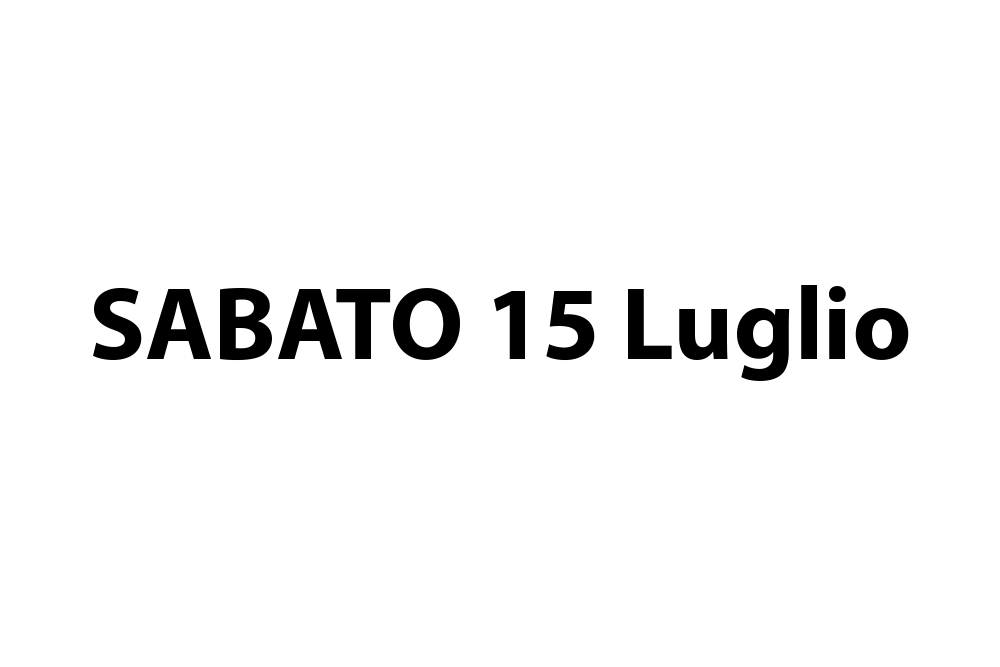
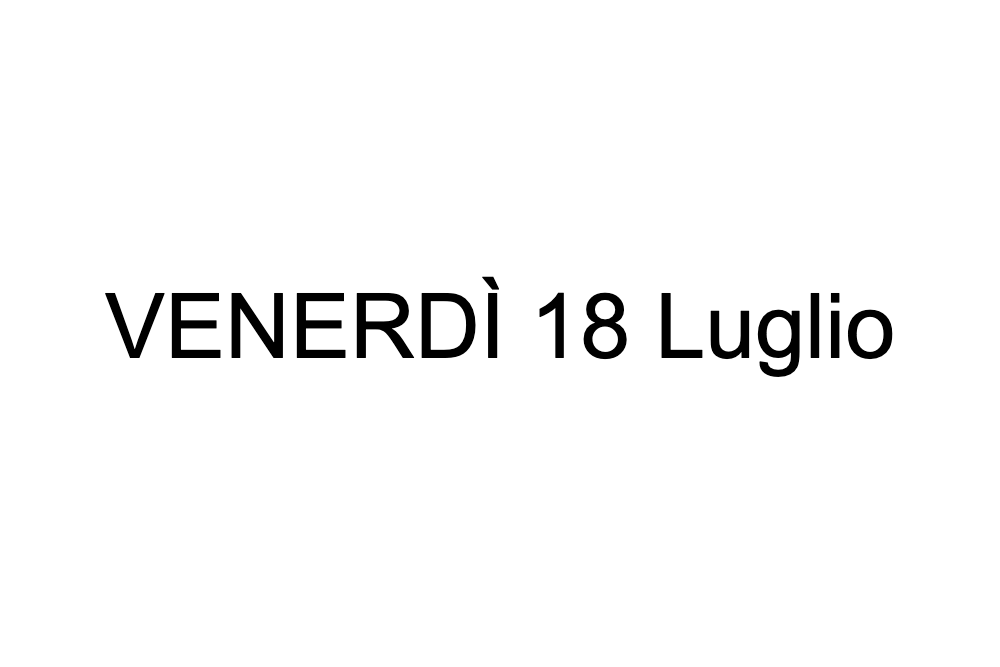
Updated Website for 2025

Changed region(s): [[0.093, 0.4198, 0.93, 0.5697]]

diff --git a/js/menu.js b/js/menu.js
@@ -8,66 +8,74 @@ function Product(photo, name, price, desc,category) {
 }
 
 var prod_list=[];
-prod_list.push(new Product("media/menu/GnocchiAlPomodoro.png","Gnocchi al Pomodoro",5.00,"Gnocchi al pomodoro","Primi"));
-prod_list.push(new Product("media/menu/GnocchiAlRagu.png","Gnocchi al Rag\u00F9",5.50,"Gnocchi al rag\u00F9","Primi"));
-prod_list.push(new Product("media/menu/GnocchiAlRaguDiConiglio.png","Gnocchi al Rag\u00F9 di coniglio",6.00,"Gnocchi al rag\u00F9 di coniglio","Primi"));
-prod_list.push(new Product("media/menu/SpaghettiAlPomodoro.png","Spaghetti al Pomodoro",5.00,"Spaghetti al pomodoro","Primi"));
-prod_list.push(new Product("media/menu/SpaghettiAlRagu.png","Spaghetti al Rag\u00F9",5.50,"Spaghetti al rag\u00F9","Primi"));
-prod_list.push(new Product("media/menu/SpaghettiAlRaguDiConiglio.png","Spaghetti al Rag\u00F9 di Coniglio",6.00,"Spaghetti al rag\u00F9 di coniglio","Primi"));
-//prod_list.push(new Product("media/menu/SpaghettiAmatriciana.png","Spaghetti all'Amatriciana",5.50,"Spaghetti all'amatriciana","Primi"));
+prod_list.push(new Product("media/menu/GnocchiAlPomodoro.png","Gnocchi al Pomodoro",5.50,"Gnocchi al pomodoro","Primi"));
+prod_list.push(new Product("media/menu/GnocchiAlRagu.png","Gnocchi al Rag\u00F9",6.00,"Gnocchi al rag\u00F9","Primi"));
+prod_list.push(new Product("media/menu/GnocchiAlRaguDiConiglio.png","Gnocchi al Rag\u00F9 di coniglio",6.50,"Gnocchi al rag\u00F9 di coniglio","Primi"));
+prod_list.push(new Product("media/menu/SpaghettiAlPomodoro.png","Spaghetti al Pomodoro",5.50,"Spaghetti al pomodoro","Primi"));
+prod_list.push(new Product("media/menu/SpaghettiAlRagu.png","Spaghetti al Rag\u00F9",6.00,"Spaghetti al rag\u00F9","Primi"));
+prod_list.push(new Product("media/menu/SpaghettiAlRaguDiConiglio.png","Spaghetti al Rag\u00F9 di Coniglio",6.50,"Spaghetti al rag\u00F9 di coniglio","Primi"));
 
 
-prod_list.push(new Product("media/menu/PiattoEstivo.png","Piatto Estivo",8.00,"Mozzarella di bufala, pomodoro, prosciutto crudo e pane","Secondi"));
+
+prod_list.push(new Product("media/menu/PiattoEstivo.png","Piatto Estivo",9.00,"Mozzarella di bufala, pomodoro, culatello e pane","Secondi"));
 prod_list.push(new Product("media/menu/BisteccaDiCavallo.png","Bistecca di Cavallo",10.00,"Bistecca di cavallo con pane","Secondi"));
-prod_list.push(new Product("media/menu/Stinco.png","Stinco",9.00,"Stinco di maiale al forno con pane","Secondi"));
-prod_list.push(new Product("media/menu/Costicine.png","Costicine",7.00,"3 costicine con polenta","Secondi"));
-prod_list.push(new Product("media/menu/Pancetta.png","Pancetta alla Piastra",6.00,"Pancetta alla piastra con pane","Secondi"));
+prod_list.push(new Product("media/menu/Stinco.png","Stinco",12.00,"Stinco di maiale al forno con pane","Secondi"));
+prod_list.push(new Product("media/menu/Costicine.png","Costicine",8.00,"3 costicine con polenta","Secondi"));
+prod_list.push(new Product("media/menu/Pancetta.png","Pancetta alla Piastra",6.50,"Pancetta alla piastra con pane","Secondi"));
 prod_list.push(new Product("media/menu/CosciaDiPollo.png","Coscia di Pollo",7.00,"Coscia di pollo disossata con polenta","Secondi"));
-prod_list.push(new Product("media/menu/Salsiccia.png","Salsiccia",6.00,"2 salsicce con polenta","Secondi"));
-prod_list.push(new Product("media/menu/Tagliata.png","Tagliata",11.00,"Tagliata di manzo con rucola e pane","Secondi"));
+prod_list.push(new Product("media/menu/Salsiccia.png","Salsiccia",6.50,"2 salsicce con polenta","Secondi"));
+prod_list.push(new Product("media/menu/Tagliata.png","Tagliata",12.00,"Tagliata di manzo con rucola e pane","Secondi"));
 prod_list.push(new Product("media/menu/PiattoSagra.png","Piatto Sagra",10.00,"2 costicine, salsiccia, pancetta e polenta","Secondi"));
-prod_list.push(new Product("media/menu/PiattoBimbi.png","Wurstel con Patate",5.00,"Wurstel di POLLO con patatine fritte","Secondi"));
-prod_list.push(new Product("media/menu/FormaggioCotto.png","Formaggio Cotto",6.00,"Formaggio cotto con polenta","Secondi"));
+prod_list.push(new Product("media/menu/PiattoBimbi.png","Piatto Bimbi",5.00,"Wurstel di POLLO con patatine fritte","Secondi"));
+prod_list.push(new Product("media/menu/FormaggioCotto.png","Formaggio Cotto",7.00,"Formaggio cotto con polenta","Secondi"));
 prod_list.push(new Product("media/menu/FritturaDiAnelli.png","Frittura di Anelli",10.00,"Frittura di anelli di totano con polenta","Secondi"));
+prod_list.push(new Product("media/menu/PolpetteConiglio.png","Polpette di Coniglio",8.00,"Polpette di Coniglio in umido con pane","Secondi"));
+prod_list.push(new Product("media/menu/Trippa.png","Trippa alla Parmigiana",7.00,"Trippa alla parmigiana con pane","Secondi"));
 
 
-prod_list.push(new Product("media/menu/Patate.png","Patatine Fritte",2.50,"Patatine fritte","Contorni"));
-prod_list.push(new Product("media/menu/Funghi.png","Funghi",3.00,"Funghi","Contorni"));
-prod_list.push(new Product("media/menu/Fagioli.png","Fagioli",3.00,"Fagioli","Contorni"));
+prod_list.push(new Product("media/menu/Patate.png","Patatine Fritte",3.00,"Patatine fritte","Contorni"));
+prod_list.push(new Product("media/menu/Funghi.png","Funghi",3.50,"Funghi","Contorni"));
+prod_list.push(new Product("media/menu/Fagioli.png","Fagioli",3.00,"Fagioli (sedano e cipolla)","Contorni"));
 //prod_list.push(new Product("media/menu/Patate.png","Patatine Fritte (BAR)",2.50,"Patatine fritte da ritirare presso il bar","Contorni"));
 
 prod_list.push(new Product("media/menu/PaninoOnto.png","Panino ONTO *",6.00,"Panino con pastin, cipolla e peperoni","Panini"));
 prod_list.push(new Product("media/menu/PaninoPastin.png","Panino PASTIN *",5.00,"Panino con pastin","Panini"));
 prod_list.push(new Product("media/menu/PaninoVegetariano.png","Panino VEGETARIANO *",5.00,"Panino con cipolla e peperoni","Panini"));
 prod_list.push(new Product("media/menu/PaninoPorchetta.png","Panino PORCHETTA *",4.00,"Panino con porchetta","Panini"));
-prod_list.push(new Product("media/menu/Bruschetta.png","BRUSCHETTA della Sagra *",4.00,"Bruschetta con zucchine, pomodoro, carote, aglio, capperi, basilico","Panini"));
+prod_list.push(new Product("media/menu/Bruschetta.png","BRUSCHETTA della Sagra *",4.00,"Bruschetta con zucchine, pomodoro, carote, peperoni, aglio, capperi, basilico e rucola","Panini"));
+prod_list.push(new Product("media/menu/ConiglioBar.png","Polpettine di Coniglio *",5.00,"Polpettine di coniglio al forno","Panini"));
 
 prod_list.push(new Product("media/menu/Acqua.png","Acqua minerale 0.5lt",1.00,"Acqua minerale naturale o frizzante","Bevande"));
-prod_list.push(new Product("media/menu/Bibite.png","Bibite",2.00,"Coca Cola, aranciata, Lemonsoda o the","Bevande"));
-prod_list.push(new Product("media/menu/Succo.png","Succo di Frutta",2.00,"Succo di frutta, gusti assortiti","Bevande"));
+prod_list.push(new Product("media/menu/Bibite.png","Bibite",2.50,"Coca Cola, aranciata, Lemonsoda o the","Bevande"));
+//prod_list.push(new Product("media/menu/Succo.png","Succo di Frutta",2.00,"Succo di frutta, gusti assortiti","Bevande"));
 prod_list.push(new Product("media/menu/Caffe.png","Caff\u00E8",1.00,"Caff\u00E8","Bevande"));
 prod_list.push(new Product("media/menu/Ombra.png","Ombra di Vino",1.00,"Ombra di vino rosso o bianco","Bevande"));
-prod_list.push(new Product("media/menu/Vino.png","Vino in Bottiglia SFUSO (0.75lt)",5.00,"Vino in Bottiglia SFUSO (0.75lt)","Bevande"));
-prod_list.push(new Product("media/menu/VinoBott.png","Vino in Bottiglia (0.75lt)",8.00,"Vino in Bottiglia (0.75lt): merlot, cabernet sauvignon","Bevande"));
-prod_list.push(new Product("media/menu/Prosecco.png","Prosecco DOC Treviso BRUT",8.00,"Prosecco DOC Treviso BRUT","Bevande"));
+prod_list.push(new Product("media/menu/Vino.png","Vino in Bottiglia SFUSO (0.75lt)",5.50,"Vino in Bottiglia SFUSO (0.75lt)","Bevande"));
+prod_list.push(new Product("media/menu/VinoBott.png","Vino in Bottiglia (0.75lt)",9.00,"Vino in Bottiglia (0.75lt): merlot, cabernet sauvignon","Bevande"));
+//prod_list.push(new Product("media/menu/Prosecco.png","Prosecco DOC Treviso BRUT",8.00,"Prosecco DOC Treviso BRUT","Bevande"));
 
-prod_list.push(new Product("media/menu/BirraCastelloBionda.png","Birra BIONDA PICCOLA",2.50,"Birra bionda Castello PICCOLA","Bevande"));
-prod_list.push(new Product("media/menu/BirraPedavenaNF.png","Birra NON FILTRATA PICCOLA",2.50,"Birra non filtrata Dolomite PICCOLA","Bevande"));
-prod_list.push(new Product("media/menu/BirraCastelloRossa.png","Birra ROSSA PICCOLA",2.50,"Birra rossa Castello PICCOLA","Bevande"));
+prod_list.push(new Product("media/menu/BirraCastelloBionda.png","Birra BIONDA PICCOLA",3.00,"Birra bionda Castello PICCOLA","Bevande"));
+prod_list.push(new Product("media/menu/BirraPedavenaNF.png","Birra NON FILTRATA PICCOLA",3.00,"Birra non filtrata Dolomite PICCOLA","Bevande"));
+prod_list.push(new Product("media/menu/BirraCastelloRossa.png","Birra ROSSA PICCOLA",3.00,"Birra rossa Castello PICCOLA","Bevande"));
 prod_list.push(new Product("media/menu/BirraCastelloBionda.png","Birra BIONDA GRANDE",5.00,"Birra bionda Castello GRANDE","Bevande"));
 prod_list.push(new Product("media/menu/BirraPedavenaNF.png","Birra NON FILTRATA GRANDE",5.00,"Birra non filtrata Dolomite GRANDE","Bevande"));
 prod_list.push(new Product("media/menu/BirraCastelloRossa.png","Birra ROSSA GRANDE",5.00,"Birra rossa Castello GRANDE","Bevande"));
-prod_list.push(new Product("media/menu/Caraffa.png","Caraffa di BIRRA 1,5lt",14.00,"Caraffa di birra (1,5lt) Rossa, Bionda o non filtrata","Bevande"));
-prod_list.push(new Product("media/menu/Spritz.png","Spritz",3,"Spritz","Bevande"));
+prod_list.push(new Product("media/menu/Radler.png","Radler",3.00,"Radler in bottiglia","Bevande"));
+prod_list.push(new Product("media/menu/Caraffa.png","Caraffa di BIRRA 1,5lt",15.00,"Caraffa di birra (1,5lt) Rossa o Bionda","Bevande"));
+prod_list.push(new Product("media/menu/Spritz.png","Spritz",3.00,"Spritz","Bevande"));
+prod_list.push(new Product("media/menu/GinLemon.png","Gin Lemon",6.00,"Gin Lemon","Bevande"));
+prod_list.push(new Product("media/menu/GinTonic.png","Gin Tonic",6.00,"Gin Tonic","Bevande"));
+prod_list.push(new Product("media/menu/Sgroppino.png","Sgroppino",3.00,"Sgroppino gusto limone o liquirizia","Bar"));
 
-
-prod_list.push(new Product("media/menu/Dolci.png","Fetta di dolce (profiteroles, torta della nonna, torta al cioccolato)",2.50,"Profiteroles, torta della nonna o torta al cioccolato","Dolci"));
-prod_list.push(new Product("media/menu/Sgroppino.png","Sgroppino",2.50,"Sgroppino gusto limone o liquirizia","Dolci"));
+//prod_list.push(new Product("media/menu/Dolci.png","Fetta di dolce (profiteroles, torta della nonna, torta al cioccolato)",2.50,"Profiteroles, torta della nonna o torta al cioccolato","Dolci"));
+//prod_list.push(new Product("media/menu/Sgroppino.png","Sgroppino",3.00,"Sgroppino gusto limone o liquirizia","Dolci"));
 
 
 prod_list.push(new Product("media/menu/Paella.png","Paella",17,"Paella mista pesce e carne","Serate-speciali"));
-prod_list.push(new Product("media/menu/Classi.png","Serata Classi",null,"Serata delle classi, menu standard a scelta","Serate-speciali"));
-prod_list.push(new Product("media/menu/Pesce.png","Grigliata di Pesce",25,"Orata, Seppie, Mazzancolle, Scampo, Spada e polenta","Serate-speciali"));
+prod_list.push(new Product("media/menu/Costata.png","Costata",35,"Costata","Serate-speciali"));
+prod_list.push(new Product("media/menu/Coniglio.png","Coniglio",35,"Delizie a base di coniglio","Serate-speciali"));
+//prod_list.push(new Product("media/menu/Classi.png","Serata Classi",null,"Serata delle classi, menu standard a scelta","Serate-speciali"));
+//prod_list.push(new Product("media/menu/Pesce.png","Grigliata di Pesce",25,"Orata, Seppie, Mazzancolle, Scampo, Spada e polenta","Serate-speciali"));
 
 
 
@@ -86,9 +94,9 @@ var baseURL=host+sagronewebapp;
 var product_list;
 
 document.addEventListener("DOMContentLoaded", function(){
-    var categoriesList=['Primi','Secondi','Contorni','Panini','Bevande','Dolci','Serate-speciali'];
+    //var categoriesList=['Primi','Secondi','Contorni','Panini','Bevande','Dolci','Serate-speciali'];
 
-
+    var categoriesList=['Primi','Secondi','Contorni','Panini','Bevande','Serate-speciali'];
     generate_categories_list(categoriesList);
 
 
@@ -130,7 +138,7 @@ function generate_categories_list(categoriesList){
 
             if(cat==="Panini"){
                 let panpar=document.createElement("p");
-                panpar.innerText="* i panini sono da ritirare presso il BAR";
+                panpar.innerText="* da ritirare presso il BAR";
                 panpar.classList="panini-exc";
                 maincon.appendChild(panpar);
             }
@@ -224,7 +232,8 @@ function generate_product_list_by_categories(productsList,category){
                 let col_price = document.createElement("div");
                 col_price.classList.add("col","price-col", "text-center");
                 if(price != null){
-                    col_price.innerHTML = Number(price).toFixed(2)+" \u20AC";
+                    //col_price.innerHTML = Number(price).toFixed(2)+" \u20AC";
+                    col_price.innerHTML ="-";
                 }
 
 

diff --git a/events.html b/events.html
@@ -71,7 +71,7 @@
     <div class="row" style="text-align: center;">
         <h3>I Nostri Eventi</h3>
     </div>
-    <div class="row event-row shadow-sm bg-white rounded gx-0 justify-content-center" >
+    <!--<div class="row event-row shadow-sm bg-white rounded gx-0 justify-content-center" >
 
         <h5 class="event-title">ALOHA Beach Party</h5>
         <div class="row justify-content-center"><img  class="event-img" alt="aloha" tile="aloha" src="media/events/AlohaEvent.png"></div>
@@ -111,6 +111,31 @@
         <h5 class="event-title">Spettacolo PIROTECNICO</h5>
         <div class="row justify-content-center"><img  class="event-img" alt="Spettacolo Pirotecnico" tile="Spettacolo Pirotecnico" src="media/events/PyroEvent.png"></div>
         <h6 class="event-title">Luned&igrave; 22 Luglio</h6>
+    </div>-->
+    <div class="row event-row shadow-sm bg-white rounded gx-0 justify-content-center" >
+        <h5 class="event-title">I-Pinguini (Cover Band)</h5>
+        <div class="row justify-content-center"><img  class="event-img" alt="pinguini" tile="pinguini" src="media/events/Pinguini.jpg"></div>
+        <h6 class="event-title">Venerdì 11 Luglio</h6>
+    </div>
+    <div class="row event-row shadow-sm bg-white rounded gx-0 justify-content-center" >
+        <h5 class="event-title">Gli Alcuni (Spettacolo per famiglie)</h5>
+        <div class="row justify-content-center"><img  class="event-img" alt="alcuni" tile="alcuni" src="media/events/Alcuni.png"></div>
+        <h6 class="event-title">Domenica 13 Luglio</h6>
+    </div>
+    <div class="row event-row shadow-sm bg-white rounded gx-0 justify-content-center" >
+        <h5 class="event-title">The BLACK BOYS BAND</h5>
+        <div class="row justify-content-center"><img  class="event-img" alt="Black Boys" tile="Black Boys" src="media/events/BlackBoys.png"></div>
+        <h6 class="event-title">Venerdì 18 Luglio</h6>
+    </div>
+    <div class="row event-row shadow-sm bg-white rounded gx-0 justify-content-center" >
+        <h5 class="event-title">Kalimero (party)</h5>
+        <div class="row justify-content-center"><img  class="event-img" alt="Kalimero" tile="Kalimero" src="media/events/Kalimero.jpg"></div>
+        <h6 class="event-title">Sabato 19 Luglio</h6>
+    </div>
+    <div class="row event-row shadow-sm bg-white rounded gx-0 justify-content-center" >
+        <h5 class="event-title">Giorgio Gozzo (Band)</h5>
+        <div class="row justify-content-center"><img  class="event-img" alt="Giorgio Gozzo" tile="Giorgio Gozzo" src="media/events/Gozzo.png"></div>
+        <h6 class="event-title">Domenica 20 Luglio</h6>
     </div>
 </div>
 

diff --git a/index.html b/index.html
@@ -182,7 +182,7 @@
     </div>
   </div>-->
 
-  <div class="toast show" role="alert" aria-live="assertive" aria-atomic="true">
+  <!--<div class="toast show" role="alert" aria-live="assertive" aria-atomic="true">
     <div class="toast-header">
       <img src="media/toast/PyroEvent.png" class="rounded me-2 toast-img" alt="...">
       <strong class="me-auto">Spettacolo PIROTECNICO</strong>
@@ -191,8 +191,9 @@
     </div>
     <div class="toast-body">
       Spettacolo pirotecnico
-    </div>
-  </div>
+    </div>-->
+
+
 
 
   <!--<div class="toast show" role="alert" aria-live="assertive" aria-atomic="true">
@@ -206,6 +207,29 @@
       CHIUSURA pesca di beneficenza
     </div>
   </div>-->
+
+  <div class="toast show" role="alert" aria-live="assertive" aria-atomic="true">
+    <div class="toast-header">
+      <img src="media/toast/Kalimero.jpg" class="rounded me-2 toast-img" alt="...">
+      <strong class="me-auto">Kalimero</strong>
+      <small class="text-muted">Sabato 19 Luglio</small>
+      <button type="button" class="btn-close" data-bs-dismiss="toast" aria-label="Close"></button>
+    </div>
+    <div class="toast-body">
+      Party e Hit Estive con CURTIS
+    </div>
+  </div>
+  <div class="toast show" role="alert" aria-live="assertive" aria-atomic="true">
+    <div class="toast-header">
+      <img src="media/toast/Gozzo.png" class="rounded me-2 toast-img" alt="...">
+      <strong class="me-auto">Giorgio Gozzo</strong>
+      <small class="text-muted">Domenica 20 Luglio</small>
+      <button type="button" class="btn-close" data-bs-dismiss="toast" aria-label="Close"></button>
+    </div>
+    <div class="toast-body">
+      Musica con Giorgio Gozzo
+    </div>
+  </div>
 
 </div>
 
